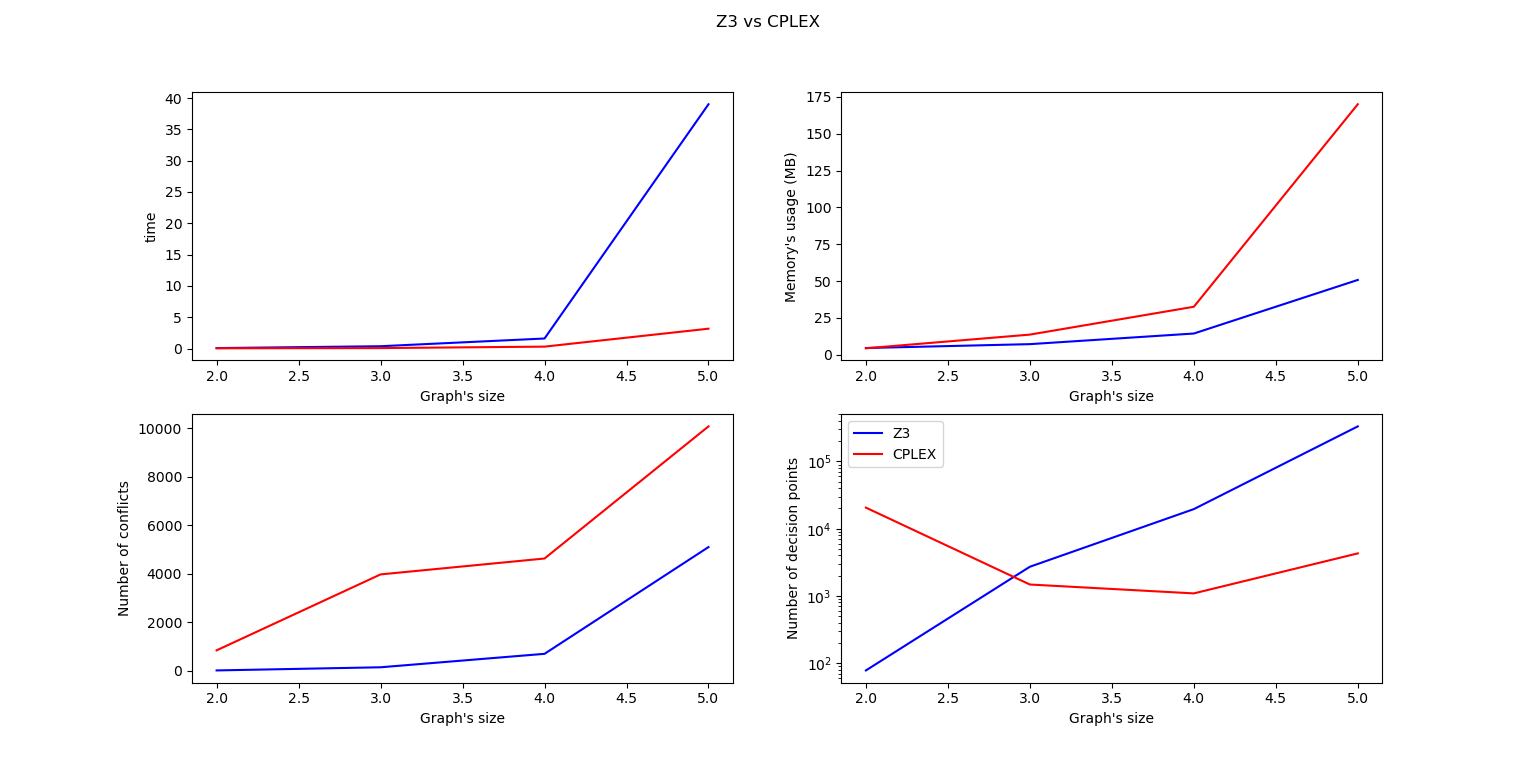
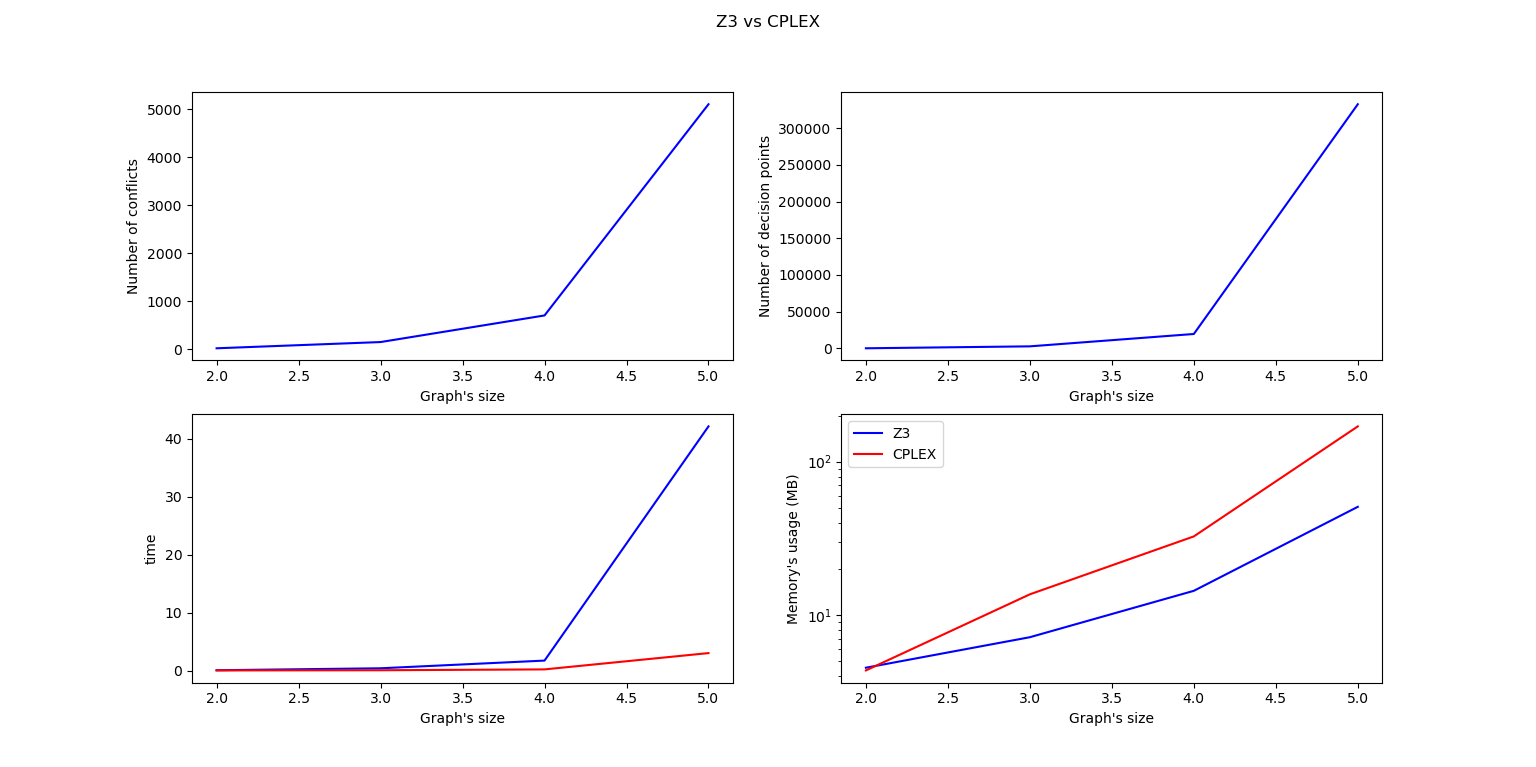
Change plot. Update report

diff --git a/report/report.tex b/report/report.tex
@@ -489,10 +489,10 @@ The aim is to compare the two approaches that we have previously described to so
 in particular, we used the following performance parameters:
 
 \begin{description}
-    \item \textit{time\_solving}: measured in seconds.
-    \item \textit{memory\_usage}: memory occupied in MB\@.
-    \item \textit{n\_conflicts}: number of conflicts.
-    \item \textit{n\_decision}: number of decision points.
+    \item \textit{time\_solving} (both Z3 and CPLEX): measured in seconds.
+    \item \textit{memory\_usage} (both Z3 and CPLEX): memory occupied in MB\@.
+    \item \textit{n\_conflicts} (only Z3): indicate assignments that did not the formula true. If the formula can be satified but the number of conflicts is high means that the solver tryed a lot of assignments therefore it didn't proceed in a goal-oriented way.
+    \item \textit{n\_decision} (only Z3): number of decision points.
 \end{description}
 
 Let's recall that for the SMT-based approach we used Z3 while we used IBM CP Optimizer for the scheduling approach.
@@ -520,14 +520,13 @@ The number of agents may change according to a certain criterion (for example pr
 From an implementation point of view we have developed an interface that would allow us to perform various tests in a flexible way, in particular allowing us to choose the type of graph, its size and the number of agents.
 \subsection{Testing}\label{subsec:testing}
 \subsubsection{Extensive testing}
-The first test was performed on a two-dimensional grid generated by NetworkX by varying the size from \textit{MIN\_SIZE=2} to \textit{MAX\_SIZE=6} with \textit{seed=42}.
+The first test was performed on a two-dimensional grid generated by NetworkX by varying the size from \textit{MIN\_SIZE=2} to \textit{MAX\_SIZE=5} with \textit{seed=42}.
 Also the number of agents varies with the size of the graph, in particular following the relationship $n\_agents = SIZE_i$ where $SIZE_i$ is the size of the graph in step $i$.
 This is to evaluate the performance of the two approaches to increasing the the complexity of the problem which, in general, is proportional to the size of the graph and the number of agents.
 The plot shown in the figure describe the trend of the parameters described above when the size of the graph changes.
 The first consideration is that \textit{time\_solving} and \textit{memory\_usage} increase as the size of the graph, as is easy to expect, however, implementation with CPLEX is faster than Z3 but uses more memory.
 The reason may depend on the is that the former performs a parallel search.
-Another observation that can be made is that the \textit{n\_conflicts} grows as the size of the graph increases and therefore of the memory required for the search space.
-A high number of conflicts could indicate that the solver tried lots of assignments that did not satisfy the formula so we can conclude that Z3 manage to explore the seach space in the direction of goal better than CPLEX.
+Another observation that can be made is that the \textit{n\_conflicts} and {n\_decision} grow as the size of the graph increases and therefore of the memory required for the search space as we expected.
 \begin{figure}[h!]
 \begin{center}
   \includegraphics[width=16cm]{plot_test.png}\\

diff --git a/test.py b/test.py
@@ -26,9 +26,7 @@ def extensive_test(num_agents):
     memory_usage_Z3 = []
     memory_usage_CPLEX = []
     number_of_conflicts_Z3 = []
-    number_of_conflicts_CPLEX = []
     decisions_Z3 = []
-    decisions_CPLEX = []
 
     size = MIN_SIZE
 
@@ -76,12 +74,12 @@ def extensive_test(num_agents):
         print(sep)
         print("CPLEX")
         print("\nStep 1) Searching for optimal number of layers\n")
-        check, ret, num_layers, solve_time, memory_usage, number_of_conflicts, decisions = \
+        check, ret, num_layers, solve_time, memory_usage, _, _ = \
             solving_MAPF(agents, edges, upper_bound, min_shortest_path)
 
         print("\nStep 2) Solving with %d layers\n" % num_layers)
         if check:
-            _, _, solve_time, memory_usage, number_of_conflicts, decisions, _ = \
+            _, _, solve_time, memory_usage, _, _, _ = \
                 run_CPLEX(edges, agents, ret, num_layers)
         else:
             print("CPLEX: unsatisfiable")
@@ -90,8 +88,6 @@ def extensive_test(num_agents):
 
         time_CPLEX.append(solve_time)
         memory_usage_CPLEX.append(memory_usage)
-        number_of_conflicts_CPLEX.append(number_of_conflicts)
-        decisions_CPLEX.append(decisions)
 
         nx.draw(graph, with_labels=True)
         plt.show()
@@ -111,29 +107,27 @@ def extensive_test(num_agents):
     fig, ax = plt.subplots(2, 2)
     size_range = np.linspace(MIN_SIZE, MAX_SIZE, MAX_SIZE - MIN_SIZE + 1)
 
-    fig.suptitle("Z3 vs CPLEX")
-    ax[0, 0].plot(size_range, time_Z3, "-b", label='Z3')
-    ax[0, 0].plot(size_range, time_CPLEX, "-r", label='CPLEX')
+    ax[0, 0].plot(size_range, number_of_conflicts_Z3, "-b", label='Z3')
     ax[0, 0].set_xlabel("Graph's size")
-    ax[0, 0].set_ylabel("time")
+    ax[0, 0].set_ylabel("Number of conflicts")
     plt.yscale('log')
 
-    ax[0, 1].plot(size_range, memory_usage_Z3, "-b", label='Z3')
-    ax[0, 1].plot(size_range, memory_usage_CPLEX, "-r", label='CPLEX')
+    ax[0, 1].plot(size_range, decisions_Z3, "-b", label='Z3')
     ax[0, 1].set_xlabel("Graph's size")
-    ax[0, 1].set_ylabel("Memory's usage (MB)")
+    ax[0, 1].set_ylabel("Number of decision points")
     plt.yscale('log')
 
-    ax[1, 0].plot(size_range, number_of_conflicts_Z3, "-b", label='Z3')
-    ax[1, 0].plot(size_range, number_of_conflicts_CPLEX, "-r", label='CPLEX')
+    fig.suptitle("Z3 vs CPLEX")
+    ax[1, 0].plot(size_range, time_Z3, "-b", label='Z3')
+    ax[1, 0].plot(size_range, time_CPLEX, "-r", label='CPLEX')
     ax[1, 0].set_xlabel("Graph's size")
-    ax[1, 0].set_ylabel("Number of conflicts")
+    ax[1, 0].set_ylabel("time")
     plt.yscale('log')
 
-    ax[1, 1].plot(size_range, decisions_Z3, "-b", label='Z3')
-    ax[1, 1].plot(size_range, decisions_CPLEX, "-r", label='CPLEX')
+    ax[1, 1].plot(size_range, memory_usage_Z3, "-b", label='Z3')
+    ax[1, 1].plot(size_range, memory_usage_CPLEX, "-r", label='CPLEX')
     ax[1, 1].set_xlabel("Graph's size")
-    ax[1, 1].set_ylabel("Number of decision points")
+    ax[1, 1].set_ylabel("Memory's usage (MB)")
     plt.yscale('log')
 
     plt.legend(loc='best')
